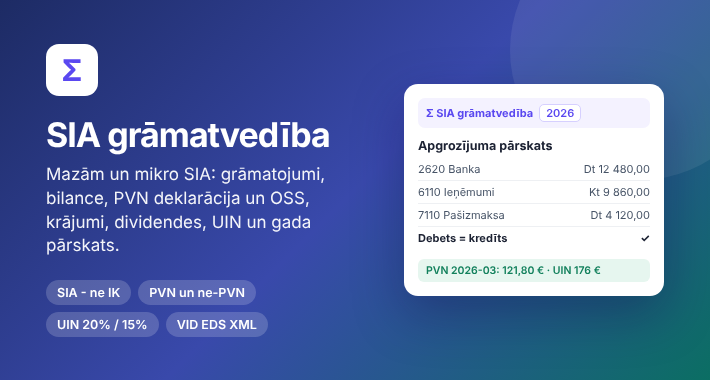
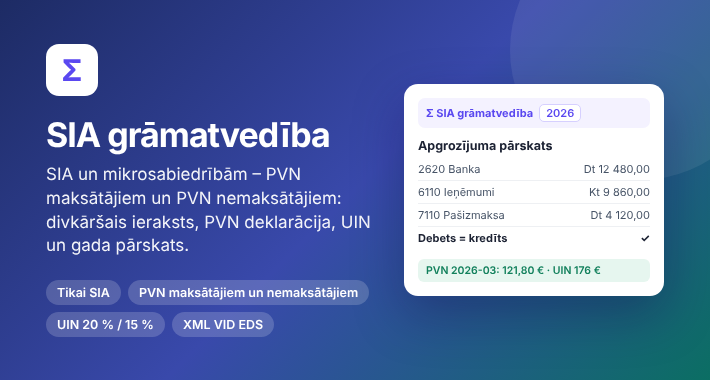
Positioning: SIA and micro companies vs IK and self-employed
Claude-Session: https://claude.ai/code/session_01BDzH6KM6mpwT9xKqHFzTSu

Changed region(s): [[0.062, 0.4342, 0.5268, 0.6658], [0.062, 0.7237, 0.5268, 0.8974]]

diff --git a/lv-journal.html b/lv-journal.html
@@ -1,6 +1,6 @@
 <!doctype html>
 <html lang="lv"><head><meta charset="utf-8"><meta name="viewport" content="width=device-width, initial-scale=1">
-<title>Saimnieciskās darbības žurnāls - OpenCart extension</title><meta name="description" content="IK un pašnodarbinātajiem: ieņēmumu un izdevumu uzskaites žurnāls (MK noteikumi Nr. 322), kas aizpildās no jūsu OpenCart pasūtījumiem - ar rēķiniem, čeku foto un izmaiņu vēsturi. SIA - skat. SIA grāmatvedība."><style>:root{--bg:#f6f7f9;--card:#fff;--ink:#17202a;--mut:#5b6773;--line:#e2e7ec;--acc:#12805c;--acc2:#1f6fb8;--chip:#eef2f5}
+<title>Saimnieciskās darbības žurnāls - OpenCart extension</title><meta name="description" content="Individuālajiem komersantiem (IK) un pašnodarbinātajiem: ieņēmumu un izdevumu uzskaites žurnāls (MK noteikumi Nr. 322), kas aizpildās no jūsu OpenCart pasūtījumiem, – ar rēķiniem, čeku foto un izmaiņu vēsturi. SIA paredzēts modulis „SIA grāmatvedība”."><style>:root{--bg:#f6f7f9;--card:#fff;--ink:#17202a;--mut:#5b6773;--line:#e2e7ec;--acc:#12805c;--acc2:#1f6fb8;--chip:#eef2f5}
 @media (prefers-color-scheme:dark){:root{--bg:#0f1418;--card:#171e24;--ink:#e8edf1;--mut:#9aa7b2;--line:#26313a;--acc:#2fb487;--acc2:#5aa5e6;--chip:#1f2830}}
 *{box-sizing:border-box}body{margin:0;background:var(--bg);color:var(--ink);font:16px/1.55 -apple-system,BlinkMacSystemFont,"Segoe UI",Roboto,Helvetica,Arial,sans-serif}
 a{color:var(--acc2)}.wrap{max-width:1000px;margin:0 auto;padding:0 16px}
@@ -19,11 +19,11 @@ ol.s{margin:0;padding-left:22px}ol.s li{margin:6px 0}
 footer{margin:44px 0 0;padding:22px 0 40px;border-top:1px solid var(--line);color:var(--mut);font-size:14px}</style></head>
 <body><div class="wrap">
 <nav><a href="./">&larr; Visi paplašinājumi</a></nav>
-<header><h1>Saimnieciskās darbības žurnāls</h1><p>IK un pašnodarbinātajiem: ieņēmumu un izdevumu uzskaites žurnāls (MK noteikumi Nr. 322), kas aizpildās no jūsu OpenCart pasūtījumiem - ar rēķiniem, čeku foto un izmaiņu vēsturi. SIA - skat. SIA grāmatvedība.</p>
+<header><h1>Saimnieciskās darbības žurnāls</h1><p>Individuālajiem komersantiem (IK) un pašnodarbinātajiem: ieņēmumu un izdevumu uzskaites žurnāls (MK noteikumi Nr. 322), kas aizpildās no jūsu OpenCart pasūtījumiem, – ar rēķiniem, čeku foto un izmaiņu vēsturi. SIA paredzēts modulis „SIA grāmatvedība”.</p>
 <div class="buy"><span class="price">$49</span><a class="btn main" href="https://www.opencart.com/index.php?route=marketplace/extension/info&amp;extension_id=50265">Pirkt OpenCart Marketplace</a><a class="btn" href="docs/LV_JOURNAL_GUIDE.md">Lietošanas pamācība</a></div>
 <div class="chips"><span>OpenCart 3 + 4 vienā pirkumā</span><span>Netiek mainīti OpenCart faili</span><span>12 mēnešu atjauninājumi un atbalsts</span></div></header>
 <h2>Demo video</h2><div class="card"><video controls muted playsinline preload="metadata" poster="assets/lv_journal_demo_poster.jpg"><source src="assets/lv_journal_demo.mp4" type="video/mp4"></video><p style="margin:8px 2px 0;color:var(--mut);font-size:14px">32 sekundes, bez skaņas, ar parakstiem</p></div>
-<h2>Ko tas dara</h2><div class="card"><ul class="f"><li>Apmaksātie pasūtījumi, atmaksas un maksājumu komisijas tiek ierakstīti žurnālā automātiski, brīdī kad mainās statuss</li><li>Nekas netiek dzēsts: importētie ieraksti ir aizsargāti un tiek laboti ar korekcijas ierakstu, manuālos var anulēt ar iemeslu, katra izmaiņa redzama vēsturē</li><li>Rēķini ar nepārtrauktu numerāciju (R-2026-00001), kredītrēķini pie atmaksām, nosūtīšana pircējam e-pastā</li><li>Izdevumi no čeka vai rēķina foto: teksts tiek nolasīts pārlūkā, foto netiek sūtīts uz internetu; fails tiek saglabāts kā attaisnojuma dokuments</li><li>Pārbaudes: trūkstoši pasūtījumi un atmaksas, sākuma atlikumi, konta izraksts (camt.053), PVN 50 000 € un ES OSS 10 000 € sliekšņi</li><li>1., 2. un 3. pielikums, Latvijas Bankas kurss darījuma dienā, drukāšana (PDF), CSV, grāmatojumi un JSON grāmatvedim</li><li>Uzņēmuma profils no reģistriem (UR, VID PVN, ES VIES): modulis pats nosaka uzskaites formu, nodokļu režīmu, PVN pienākumus un sliekšņus, ar saiti uz avotu pie katra secinājuma; PVN statusu pārbauda reizi nedēļā</li><li>CMR pavadzīmes: izejošās un ienākošās, aizpildītas no rēķina vai pasūtījuma, piesaistītas rēķiniem un ierakstiem, ar 24 ailu izdruku un saņemšanas atzīmi</li><li>Latviešu, angļu vai krievu valodā</li><li>Grāmatvežiem: bezmaksas licence profesionālai pārbaudei - sazinieties ar izstrādātāju</li><li>Sagatavo žurnālu - neiesniedz deklarācijas VID</li></ul></div>
+<h2>Ko tas dara</h2><div class="card"><ul class="f"><li>Apmaksātie pasūtījumi, atmaksas un maksājumu komisijas tiek ierakstīti žurnālā automātiski, brīdī kad mainās statuss</li><li>Nekas netiek dzēsts: importētie ieraksti ir aizsargāti un tiek laboti ar korekcijas ierakstu, manuālos var anulēt ar iemeslu, katra izmaiņa redzama vēsturē</li><li>Rēķini ar nepārtrauktu numerāciju (R-2026-00001), kredītrēķini pie atmaksām, nosūtīšana pircējam e-pastā</li><li>Izdevumi no čeka vai rēķina foto: teksts tiek nolasīts pārlūkā, foto netiek sūtīts uz internetu; fails tiek saglabāts kā attaisnojuma dokuments</li><li>Pārbaudes: trūkstoši pasūtījumi un atmaksas, sākuma atlikumi, konta izraksts (camt.053), PVN 50 000 € un ES OSS 10 000 € sliekšņi</li><li>1., 2. un 3. pielikums, Latvijas Bankas kurss darījuma dienā, drukāšana (PDF), CSV, grāmatojumi un JSON grāmatvedim</li><li>Uzņēmuma profils no reģistriem (UR, VID PVN, ES VIES): modulis pats nosaka uzskaites formu, nodokļu režīmu, PVN pienākumus un sliekšņus, ar saiti uz avotu pie katra secinājuma; PVN statusu pārbauda reizi nedēļā</li><li>CMR pavadzīmes: izejošās un ienākošās, aizpildītas no rēķina vai pasūtījuma, piesaistītas rēķiniem un ierakstiem, ar 24 ailu izdruku un saņemšanas atzīmi</li><li>Latviešu, angļu vai krievu valodā</li><li>Grāmatvežiem: bezmaksas licence profesionālai pārbaudei – sazinieties ar izstrādātāju</li><li>Sagatavo žurnālu - neiesniedz deklarācijas VID</li></ul></div>
 
 <h2>Ekrānuzņēmumi</h2><div class="shots"><figure><img src="assets/lv_journal_1.png" alt="Pārskats ar pārbaudēm un sliekšņiem" loading="lazy"><figcaption>Pārskats ar pārbaudēm un sliekšņiem</figcaption></figure><figure><img src="assets/lv_journal_2.png" alt="Žurnāls: aizsargāti, anulēti un salīdzināti ieraksti" loading="lazy"><figcaption>Žurnāls: aizsargāti, anulēti un salīdzināti ieraksti</figcaption></figure><figure><img src="assets/lv_journal_3.png" alt="Rēķini un kredītrēķini" loading="lazy"><figcaption>Rēķini un kredītrēķini</figcaption></figure><figure><img src="assets/lv_journal_4.png" alt="Izdevumi no rēķina foto" loading="lazy"><figcaption>Izdevumi no rēķina foto</figcaption></figure><figure><img src="assets/lv_journal_5.png" alt="Izmaiņu vēsture" loading="lazy"><figcaption>Izmaiņu vēsture</figcaption></figure><figure><img src="assets/lv_journal_6.png" alt="CMR pavadzīmes" loading="lazy"><figcaption>CMR pavadzīmes</figcaption></figure><figure><img src="assets/lv_journal_7.png" alt="Uzņēmuma profils (IK) un noteikumi" loading="lazy"><figcaption>Uzņēmuma profils (IK) un noteikumi</figcaption></figure></div>
 <footer><p>Jautājumi: <a href="https://github.com/val218/opencart-extensions/issues">atveriet issue</a>. OpenCart ir OpenCart Limited preču zīme; šie paplašinājumi ir neatkarīgi.</p></footer>

diff --git a/lv-books.html b/lv-books.html
@@ -1,6 +1,6 @@
 <!doctype html>
 <html lang="lv"><head><meta charset="utf-8"><meta name="viewport" content="width=device-width, initial-scale=1">
-<title>SIA grāmatvedība - OpenCart extension</title><meta name="description" content="Mazām un mikro SIA (PVN maksātājām un nemaksātājām): divkāršais ieraksts no OpenCart pasūtījumiem, PVN deklarācija, UIN un gada pārskats. IK un pašnodarbinātajiem - Saimnieciskās darbības žurnāls."><style>:root{--bg:#f6f7f9;--card:#fff;--ink:#17202a;--mut:#5b6773;--line:#e2e7ec;--acc:#12805c;--acc2:#1f6fb8;--chip:#eef2f5}
+<title>SIA grāmatvedība - OpenCart extension</title><meta name="description" content="SIA un mikrosabiedrībām – PVN maksātājiem un PVN nemaksātājiem: divkāršā ieraksta grāmatvedība no OpenCart pasūtījumiem, PVN deklarācija, UIN un gada pārskats. Individuālajiem komersantiem (IK) un pašnodarbinātajiem paredzēts „Saimnieciskās darbības žurnāls”."><style>:root{--bg:#f6f7f9;--card:#fff;--ink:#17202a;--mut:#5b6773;--line:#e2e7ec;--acc:#12805c;--acc2:#1f6fb8;--chip:#eef2f5}
 @media (prefers-color-scheme:dark){:root{--bg:#0f1418;--card:#171e24;--ink:#e8edf1;--mut:#9aa7b2;--line:#26313a;--acc:#2fb487;--acc2:#5aa5e6;--chip:#1f2830}}
 *{box-sizing:border-box}body{margin:0;background:var(--bg);color:var(--ink);font:16px/1.55 -apple-system,BlinkMacSystemFont,"Segoe UI",Roboto,Helvetica,Arial,sans-serif}
 a{color:var(--acc2)}.wrap{max-width:1000px;margin:0 auto;padding:0 16px}
@@ -19,11 +19,11 @@ ol.s{margin:0;padding-left:22px}ol.s li{margin:6px 0}
 footer{margin:44px 0 0;padding:22px 0 40px;border-top:1px solid var(--line);color:var(--mut);font-size:14px}</style></head>
 <body><div class="wrap">
 <nav><a href="./">&larr; Visi paplašinājumi</a></nav>
-<header><h1>SIA grāmatvedība</h1><p>Mazām un mikro SIA (PVN maksātājām un nemaksātājām): divkāršais ieraksts no OpenCart pasūtījumiem, PVN deklarācija, UIN un gada pārskats. IK un pašnodarbinātajiem - Saimnieciskās darbības žurnāls.</p>
+<header><h1>SIA grāmatvedība</h1><p>SIA un mikrosabiedrībām – PVN maksātājiem un PVN nemaksātājiem: divkāršā ieraksta grāmatvedība no OpenCart pasūtījumiem, PVN deklarācija, UIN un gada pārskats. Individuālajiem komersantiem (IK) un pašnodarbinātajiem paredzēts „Saimnieciskās darbības žurnāls”.</p>
 <div class="buy"><span class="price">$79</span><a class="btn main" href="https://www.opencart.com/index.php?route=marketplace/extension/info&amp;extension_id=50284">Pirkt OpenCart Marketplace</a><a class="btn" href="docs/LV_BOOKS_GUIDE.md">Lietošanas pamācība</a></div>
 <div class="chips"><span>OpenCart 3 + 4 vienā pirkumā</span><span>Netiek mainīti OpenCart faili</span><span>12 mēnešu atjauninājumi un atbalsts</span></div></header>
 
-<h2>Ko tas dara</h2><div class="card"><ul class="f"><li>Apmaksātie pasūtījumi, atmaksas un komisijas kļūst par grāmatojumiem automātiski; izdevumi ar kontu (izmaksas, krājumi, pamatlīdzekļi)</li><li>Apgrozījuma pārskats, konta izdruka, virsgrāmata CSV, peļņas vai zaudējumu aprēķins un bilance pēc gada pārskata rindām</li><li>PVN: katram dokumentam PVN veids (iekšzeme, ES preces un pakalpojumi, eksports, OSS, apgrieztā maksāšana, imports); deklarācija, PVN 1, PVN 2 un XML VID EDS</li><li>Nav PVN maksātājs? 139.2 panta reģistrācija un brīdinājums, kad jāreģistrējas</li><li>Krājumi pēc vidējās cenas, pamatlīdzekļi ar nolietojumu, inventarizācija</li><li>Dividendes ar UIN 20% vai 15% + IIN 6% (no 2026), UIN deklarācijas XML, gada pārskats mikrosabiedrībām (XML)</li><li>Termiņu kalendārs: UIN, PVN, OSS, IIN no dividendēm, gada pārskats</li><li>Nekas netiek dzēsts: anulēšana ar iemeslu, izmaiņu vēsture; uzņēmuma profils no reģistriem, CMR, rēķini</li><li>Nav iekļauts: algu aprēķins, piegādātāju rēķinu uzkrāšana, valūtas kursu starpības</li><li>Grāmatvežiem: bezmaksas licence profesionālai pārbaudei - sazinieties ar izstrādātāju</li><li>Sagatavo grāmatas un failus - neiesniedz VID; nav vēl pārbaudīts ar sertificētu grāmatvedi</li></ul></div>
+<h2>Ko tas dara</h2><div class="card"><ul class="f"><li>Apmaksātie pasūtījumi, atmaksas un komisijas kļūst par grāmatojumiem automātiski; izdevumi ar kontu (izmaksas, krājumi, pamatlīdzekļi)</li><li>Apgrozījuma pārskats, konta izdruka, virsgrāmata CSV, peļņas vai zaudējumu aprēķins un bilance pēc gada pārskata rindām</li><li>PVN: katram dokumentam PVN veids (iekšzeme, ES preces un pakalpojumi, eksports, OSS, apgrieztā maksāšana, imports); deklarācija, PVN 1, PVN 2 un XML VID EDS</li><li>Nav PVN maksātājs? 139.2 panta reģistrācija un brīdinājums, kad jāreģistrējas</li><li>Krājumi pēc vidējās cenas, pamatlīdzekļi ar nolietojumu, inventarizācija</li><li>Dividendes ar UIN 20% vai 15% + IIN 6% (no 2026), UIN deklarācijas XML, gada pārskats mikrosabiedrībām (XML)</li><li>Termiņu kalendārs: UIN, PVN, OSS, IIN no dividendēm, gada pārskats</li><li>Nekas netiek dzēsts: anulēšana ar iemeslu, izmaiņu vēsture; uzņēmuma profils no reģistriem, CMR, rēķini</li><li>Nav iekļauts: algu aprēķins, piegādātāju rēķinu uzkrāšana, valūtas kursu starpības</li><li>Grāmatvežiem: bezmaksas licence profesionālai pārbaudei – sazinieties ar izstrādātāju</li><li>Sagatavo grāmatvedību un failus, bet neiesniedz tos VID; to vēl nav pārbaudījis sertificēts grāmatvedis</li></ul></div>
 
 <h2>Ekrānuzņēmumi</h2><div class="shots"><figure><img src="assets/lv_books_1.png" alt="PVN deklarācija no dokumentiem" loading="lazy"><figcaption>PVN deklarācija no dokumentiem</figcaption></figure><figure><img src="assets/lv_books_2.png" alt="Peļņas vai zaudējumu aprēķins, bilance un gada pārskats" loading="lazy"><figcaption>Peļņas vai zaudējumu aprēķins, bilance un gada pārskats</figcaption></figure><figure><img src="assets/lv_books_3.png" alt="Apgrozījuma pārskats" loading="lazy"><figcaption>Apgrozījuma pārskats</figcaption></figure><figure><img src="assets/lv_books_4.png" alt="UIN un termiņi" loading="lazy"><figcaption>UIN un termiņi</figcaption></figure><figure><img src="assets/lv_books_5.png" alt="Izdevumi ar kontu un PVN veidu" loading="lazy"><figcaption>Izdevumi ar kontu un PVN veidu</figcaption></figure><figure><img src="assets/lv_books_6.png" alt="Dalībnieki un dividendes" loading="lazy"><figcaption>Dalībnieki un dividendes</figcaption></figure><figure><img src="assets/lv_books_7.png" alt="Krājumi un pamatlīdzekļi" loading="lazy"><figcaption>Krājumi un pamatlīdzekļi</figcaption></figure><figure><img src="assets/lv_books_8.png" alt="Uzņēmuma profils (SIA)" loading="lazy"><figcaption>Uzņēmuma profils (SIA)</figcaption></figure></div>
 <footer><p>Jautājumi: <a href="https://github.com/val218/opencart-extensions/issues">atveriet issue</a>. OpenCart ir OpenCart Limited preču zīme; šie paplašinājumi ir neatkarīgi.</p></footer>

diff --git a/index.html b/index.html
@@ -112,11 +112,11 @@ footer{margin:48px 0 0;padding:24px 0 40px;border-top:1px solid var(--line);colo
 <div class="links"><a class="btn main" href="https://www.opencart.com/index.php?route=marketplace/extension/info&amp;extension_id=50264">OpenCart Marketplace</a><a class="btn" href="uk-export.html">Demo video</a><a class="btn" href="docs/UK_EXPORT_GUIDE.md">Guide</a></div></div></div>
 
 <div class="card"><img src="assets/lv_journal_banner.png" alt="Latvian income and expense journal banner" loading="lazy"><div class="b">
-<h3><a href="lv-journal.html" style="color:inherit;text-decoration:none">LV Income &amp; Expense Journal (IK)</a></h3><p>IK un pašnodarbinātajiem: ieņēmumu un izdevumu žurnāls (MK 322), aizpildīts no apmaksātajiem pasūtījumiem, ar rēķiniem, čeku foto, CMR un uzņēmuma profilu.</p><div class="price">$49</div>
+<h3><a href="lv-journal.html" style="color:inherit;text-decoration:none">LV Income &amp; Expense Journal (IK)</a></h3><p>Individuālajiem komersantiem (IK) un pašnodarbinātajiem: ieņēmumu un izdevumu žurnāls (MK noteikumi Nr. 322), aizpildīts no apmaksātajiem pasūtījumiem, ar rēķiniem, čeku foto, CMR un uzņēmuma profilu.</p><div class="price">$49</div>
 <div class="links"><a class="btn main" href="https://www.opencart.com/index.php?route=marketplace/extension/info&amp;extension_id=50265">OpenCart Marketplace</a><a class="btn" href="lv-journal.html">Demo video</a><a class="btn" href="docs/LV_JOURNAL_GUIDE.md">Guide</a></div></div></div>
 
 <div class="card"><img src="assets/lv_books_banner.png" alt="SIA bookkeeping banner" loading="lazy"><div class="b">
-<h3><a href="lv-books.html" style="color:inherit;text-decoration:none">LV Books - SIA grāmatvedība</a></h3><p>Mazām un mikro SIA: divkāršais ieraksts no pasūtījumiem, PVN deklarācija un OSS, krājumi, dividendes, UIN un gada pārskats (XML VID EDS).</p><div class="price">$79</div>
+<h3><a href="lv-books.html" style="color:inherit;text-decoration:none">LV Books - SIA grāmatvedība</a></h3><p>SIA un mikrosabiedrībām – PVN maksātājiem un PVN nemaksātājiem: divkāršais ieraksts, PVN deklarācija un OSS, krājumi, dividendes, UIN un gada pārskats (XML VID EDS).</p><div class="price">$79</div>
 <div class="links"><a class="btn main" href="https://www.opencart.com/index.php?route=marketplace/extension/info&amp;extension_id=50284">OpenCart Marketplace</a><a class="btn" href="lv-books.html">Screenshots</a><a class="btn" href="docs/LV_BOOKS_GUIDE.md">Guide</a></div></div></div>
 </div>
 
